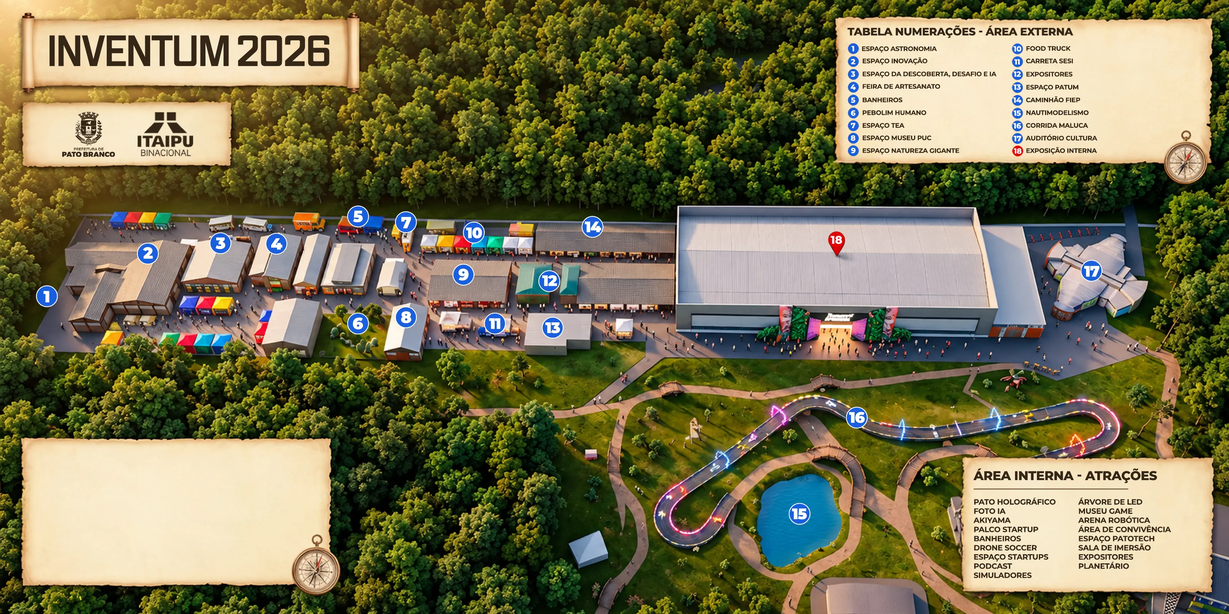
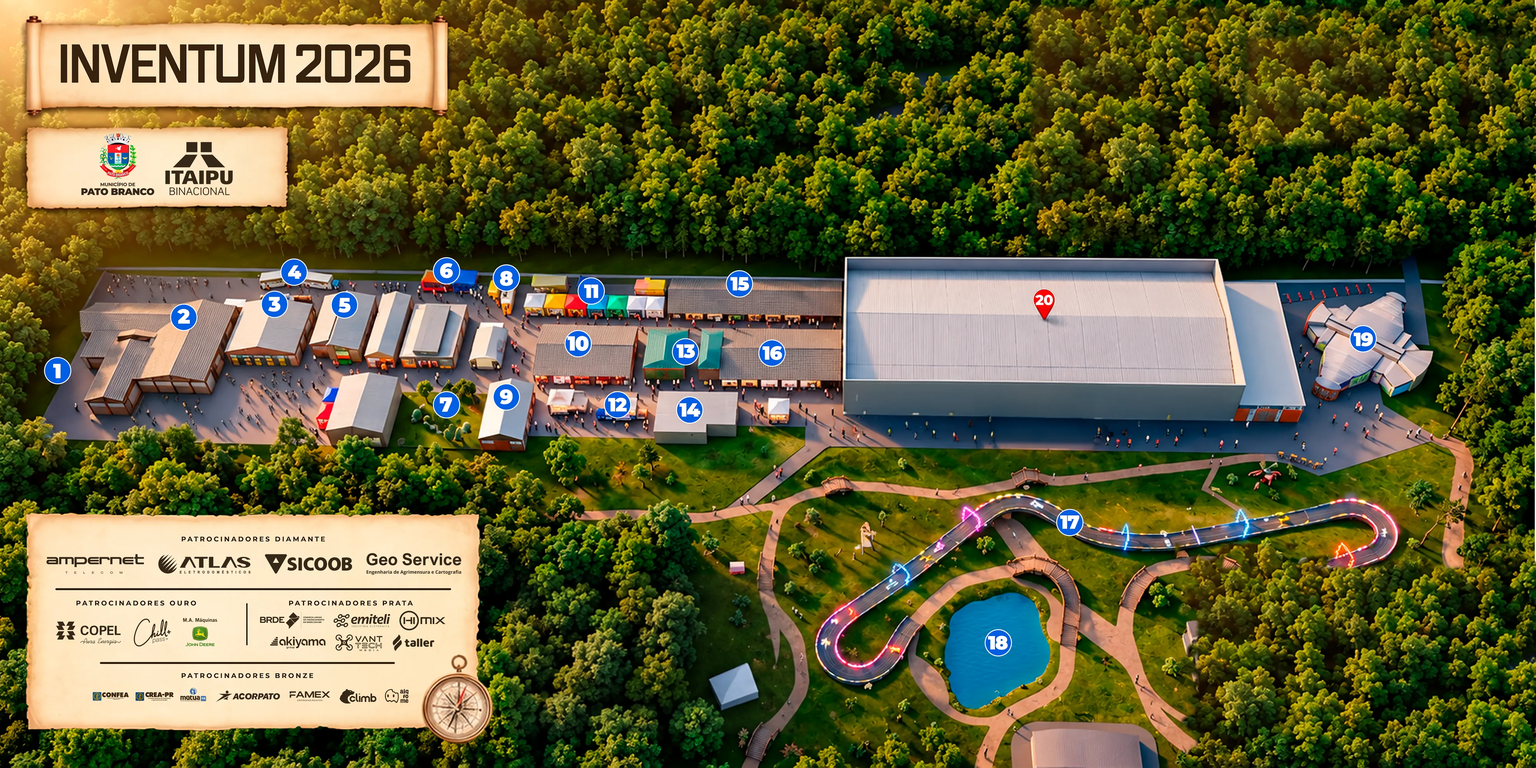
Mapa finalizado

diff --git a/src/Mapa.jsx b/src/Mapa.jsx
@@ -83,7 +83,8 @@ export default function Mapa({ foco, margem, rota, origem, destino, aoTocar, aoL
     const maxW = Math.min(IMG.largura, IMG.altura * (tam.w / tam.h))
     const cx = v.x + v.w / 2
     const cy = v.y + v.h / 2
-    const w = Math.min(Math.max(v.w, 120), maxW)
+    // zoom máximo: no máximo 5 pixels de tela por unidade (a imagem não fica borrada)
+    const w = Math.min(Math.max(v.w, 120, tam.w / 5), maxW)
     const h = w * (tam.h / tam.w)
     const k = w / tam.w
     const topo = (margem?.topo || 0) * k
@@ -97,7 +98,8 @@ export default function Mapa({ foco, margem, rota, origem, destino, aoTocar, aoL
   // enquadra uma caixa do mapa na parte livre da tela (acima do painel)
   // "manter": ponto que precisa aparecer quando a caixa não cabe na tela (ex.: onde a pessoa está)
   // "mover": só arrasta o mapa até a caixa, sem mudar o zoom
-  function enquadrar(b, manter, mover) {
+  // soManter: não mexe no zoom nem no centro; só arrasta o mínimo para "manter" aparecer
+  function enquadrar(b, manter, mover, soManter) {
     const topo = margem?.topo || 0
     const baixo = margem?.baixo || 0
     const esquerda = margem?.esquerda || 0
@@ -105,9 +107,9 @@ export default function Mapa({ foco, margem, rota, origem, destino, aoTocar, aoL
     const livreW = Math.max(tam.w - esquerda - 24, 120)
     // escala (unidades do mapa por pixel), sem passar do zoom máximo e do mínimo
     const maxEscala = Math.min(IMG.largura, IMG.altura * (tam.w / tam.h)) / tam.w
-    const escala = mover && vb ? vb.w / tam.w
-      : Math.min(Math.max(Math.max(b.w / livreW, b.h / livreH) * 1.08, 120 / tam.w), maxEscala)
-    let v = {
+    const escala = (mover || soManter) && vb ? vb.w / tam.w
+      : Math.min(Math.max(Math.max(b.w / livreW, b.h / livreH) * 1.08, Math.max(120, tam.w / 5) / tam.w), maxEscala)
+    let v = soManter && vb ? { ...vb } : {
       x: b.x + b.w / 2 - (esquerda + 12 + livreW / 2) * escala,
       y: b.y + b.h / 2 - (topo + livreH / 2) * escala,
       w: tam.w * escala,
@@ -124,20 +126,34 @@ export default function Mapa({ foco, margem, rota, origem, destino, aoTocar, aoL
       v = { ...v, x: v.x + dx, y: v.y + dy }
     }
     // não mostra faixa vazia embaixo da imagem se não precisar
-    const yMax = Math.max(IMG.altura - v.h, b.y + b.h - (v.h - baixo * escala))
-    v = limitar({ ...v, y: Math.min(v.y, yMax) })
+    if (!soManter) {
+      const yMax = Math.max(IMG.altura - v.h, b.y + b.h - (v.h - baixo * escala))
+      v = { ...v, y: Math.min(v.y, yMax) }
+    }
+    v = limitar(v)
     setVb(v)
   }
 
   useEffect(() => {
-    if (tam.w && foco) enquadrar(foco.caixa, foco.manter, foco.mover)
+    if (tam.w && foco) enquadrar(foco.caixa, foco.manter, foco.mover, foco.soManter)
     // refaz quando o painel muda de tamanho, para a rota não ficar escondida atrás dele
   }, [foco, tam.w, tam.h, margem?.baixo, margem?.esquerda]) // eslint-disable-line react-hooks/exhaustive-deps
+
+  // centro da parte do mapa que não fica atrás do painel (os botões + e − aproximam ali)
+  const centroLivre = () => {
+    const esq = margem?.esquerda || 0
+    return { x: esq + (tam.w - esq) / 2, y: (tam.h - (margem?.baixo || 0)) / 2 }
+  }
 
   function zoomEm(px, py, fator) {
     setVb((v) => {
       const mx = v.x + (px / tam.w) * v.w
       const my = v.y + (py / tam.h) * v.h
+      // não deixa passar do zoom máximo/mínimo; senão o mapa "pula" para outro ponto
+      const minW = Math.max(120, tam.w / 5)
+      const maxW = Math.min(IMG.largura, IMG.altura * (tam.w / tam.h))
+      fator = Math.min(Math.max(fator, minW / v.w), maxW / v.w)
+      if (Math.abs(fator - 1) < 1e-3) return v
       return limitar({ x: mx - (mx - v.x) * fator, y: my - (my - v.y) * fator, w: v.w * fator, h: v.h * fator })
     })
   }
@@ -260,11 +276,12 @@ export default function Mapa({ foco, margem, rota, origem, destino, aoTocar, aoL
         const t = naTela(posPonto(l))
         ocupado.push({ x1: t.x - 16, x2: t.x + 16, y1: t.y - 16, y2: t.y + 16 })
       }
-      const e = naTela(PLANTA.entrada)
+      // as duas entradas ficam nas laterais do Pavilhão
       const el = naTela(PLANTA.entradaLateral)
+      const er = naTela(PLANTA.entradaDireita)
       for (const r of [
-        { x1: e.x - 30, x2: e.x + 30, y1: e.y + 4, y2: e.y + 24 },
         { x1: el.x - 66, x2: el.x - 6, y1: el.y - 10, y2: el.y + 10 },
+        { x1: er.x + 6, x2: er.x + 66, y1: er.y - 10, y2: er.y + 10 },
       ]) {
         const entrada = { ...r, id: null, texto: 'Entrada', classe: ' rotulo-entrada' }
         ocupado.push(entrada)
@@ -340,7 +357,7 @@ export default function Mapa({ foco, margem, rota, origem, destino, aoTocar, aoL
 
           {/* telhado aberto: o Pavilhão por dentro, em 3D (aparece ao aproximar) */}
           <image href={PLANTA.imagem} x={PX} y={PY} width={PW} height={PH} preserveAspectRatio="none"
-            className={`pavilhao-dentro${aberto ? ' visivel' : ''}`} />
+            className={`pavilhao-dentro${aberto || rota?.pelaPavilhao ? ' visivel' : ''}`} />
 
           {/* rota: do número de origem até o número de destino */}
           {pontos && (() => {
@@ -401,8 +418,8 @@ export default function Mapa({ foco, margem, rota, origem, destino, aoTocar, aoL
       )}
 
       <div className="controles" style={{ bottom: (margem?.baixo || 0) + 12 }}>
-        <button aria-label="Aproximar" onClick={() => zoomEm(tam.w / 2, tam.h / 2, 1 / 1.6)}>+</button>
-        <button aria-label="Afastar" onClick={() => zoomEm(tam.w / 2, tam.h / 2, 1.6)}>−</button>
+        <button aria-label="Aproximar" onClick={() => zoomEm(centroLivre().x, centroLivre().y, 1 / 1.6)}>+</button>
+        <button aria-label="Afastar" onClick={() => zoomEm(centroLivre().x, centroLivre().y, 1.6)}>−</button>
       </div>
 
       {editor && clique && <div className="coordenadas">x: {clique.x}, y: {clique.y}</div>}

diff --git a/src/App.jsx b/src/App.jsx
@@ -43,7 +43,7 @@ function Numero({ local, grande }) {
   )
 }
 
-const ondeFica = (l) => (l.dentro ? 'Dentro do Pavilhão (18)' : `Área externa · número ${l.numero}`)
+const ondeFica = (l) => (l.dentro ? `Dentro do Pavilhão (${pavilhao.numero})` : `Área externa · número ${l.numero}`)
 
 export default function App() {
   const [origem, setOrigem] = useState(() => buscarLocal(params.get('aqui')))
@@ -89,7 +89,8 @@ export default function App() {
     setPassos(false)
     const r = calcularRota(dados, grafo, origem, local)
     // tocou no mapa: só arrasta, mantendo à vista o lugar tocado; da lista: enquadra a partir de onde a pessoa está
-    if (r) setFoco(daLista ? caixaDaRota(origem, local, r) : { ...caixaDaRota(origem, local, r), manter: pontoDe(dados, local), mover: true })
+    // da lista: enquadra a rota toda; tocando no mapa: o mapa fica onde está (só arrasta se o lugar ficar atrás do painel)
+    if (r) setFoco(daLista ? caixaDaRota(origem, local, r) : { caixa: caixaDaRota(origem, local, r).caixa, manter: local.ponto || pontoDe(dados, local), soManter: true })
   }
 
   function Linha({ local }) {
@@ -120,14 +121,19 @@ export default function App() {
     }
     const itens = []
     itens.push(origem.dentro
-      ? <>Saia {origem.x != null ? <>de <strong>{origem.nome}</strong> e siga a linha até a entrada do </> : 'pela entrada do '}<Numero local={pavilhao} /> <strong>Pavilhão</strong></>
+      ? <>Saia {origem.x != null ? <>de <strong>{origem.nome}</strong> e siga a linha até a entrada lateral do </> : 'pela entrada lateral do '}<Numero local={pavilhao} /> <strong>Pavilhão</strong></>
       : <>Saia de <Numero local={origem} /> <strong>{origem.nome}</strong></>)
     if (rota.pontos.length > 1) {
-      itens.push(rota.referencias.length
-        ? <>Siga a linha azul passando por {rota.referencias.slice(0, 3).map((l, i, t) => (
+      // quando a rota atravessa o Pavilhão, ele tem um passo só dele
+      const refs = rota.pelaPavilhao ? rota.referencias.filter((l) => l.id !== dados.pavilhao) : rota.referencias
+      itens.push(refs.length
+        ? <>Siga a linha azul passando por {refs.slice(0, 3).map((l, i, t) => (
             <span key={l.id}><Numero local={l} /> {l.nome}{i < t.length - 2 ? ', ' : i === t.length - 2 ? ' e ' : ''}</span>
           ))}</>
         : <>Siga a linha azul</>)
+      if (rota.pelaPavilhao) {
+        itens.push(<>Entre pela lateral do <Numero local={pavilhao} /> <strong>Pavilhão</strong>, atravesse por dentro (passando pelas atrações) e saia pela outra lateral</>)
+      }
     }
     itens.push(destino.dentro
       ? (destino.x != null
@@ -211,7 +217,7 @@ export default function App() {
               <span className="dica-passo">{origem ? '2 de 2' : '1 de 2'}</span>
               <span>
                 <strong>{origem ? 'Toque no número para onde você quer ir.' : 'Toque no número do lugar onde você está.'}</strong>
-                <small>{origem ? 'Toque no número ou no nome. Aproxime o Pavilhão (18) para ver o que tem dentro.' : 'Arraste o mapa e use dois dedos para aproximar.'}</small>
+                <small>{origem ? `Toque no número ou no nome. Aproxime o Pavilhão (${pavilhao.numero}) para ver o que tem dentro.` : 'Arraste o mapa e use dois dedos para aproximar.'}</small>
               </span>
             </p>
             <button className="link" onClick={() => setLista(true)}>Ou escolha na lista</button>

diff --git a/src/rota.js b/src/rota.js
@@ -3,10 +3,12 @@ export function montarGrafo(dados) {
   const vizinhos = {}
   for (const id in dados.nos) vizinhos[id] = []
 
-  for (const [a, b] of dados.caminhos) {
+  // o 3º valor do caminho (opcional) deixa o trecho "mais caro" para a rota evitar
+  // (ex.: a calçada da frente do Pavilhão, para a rota passar por dentro dele)
+  for (const [a, b, custo = 1] of dados.caminhos) {
     const na = dados.nos[a]
     const nb = dados.nos[b]
-    const peso = Math.hypot(na.x - nb.x, na.y - nb.y)
+    const peso = Math.hypot(na.x - nb.x, na.y - nb.y) * custo
     vizinhos[a].push({ id: b, peso })
     vizinhos[b].push({ id: a, peso })
   }
@@ -74,5 +76,9 @@ export function calcularRota(dados, grafo, origem, destino) {
     }
   }
 
-  return { destino, pontos, referencias, metros: r.distancia * dados.metrosPorUnidade }
+  // distância de verdade (sem o custo extra dos trechos evitados)
+  let d = 0
+  for (let i = 1; i < pontos.length; i++) d += Math.hypot(pontos[i].x - pontos[i - 1].x, pontos[i].y - pontos[i - 1].y)
+  const pelaPavilhao = !origem.dentro && !destino.dentro && r.caminho.some((id) => id.startsWith('pv'))
+  return { destino, pontos, referencias, pelaPavilhao, metros: d * dados.metrosPorUnidade }
 }

diff --git a/README.md b/README.md
@@ -1,10 +1,10 @@
 # Mapa Inventum 2026
 
-Mapa do evento para celular. A base é a imagem oficial do mapa (`public/mapa-inventum.webp`), com os mesmos números (1 a 18). A pessoa escaneia o QR code e aparece "Você está aqui". Ela toca no número do lugar no mapa (ou escolhe na lista) e aparece a rota. Tocar de novo no mesmo número (ou no X) desmarca.
+Mapa do evento para celular. A base é a imagem final do mapa (`public/mapa-inventum.webp`), com os números dela (1 a 20) e sem o QR code e as tabelas: o nome de cada lugar aparece ao lado do número. A pessoa escaneia o QR code e aparece "Você está aqui". Ela toca no número ou no nome do lugar no mapa (ou escolhe na lista) e aparece a rota. Tocar de novo no mesmo lugar (ou no X) desmarca.
 
-- A rota é uma linha azul por cima da imagem, do número de origem até o número de destino, seguindo os caminhos do evento.
-- O painel mostra "Como chegar" em passos: de onde sair, por quais números passar e onde chegar, com o tempo a pé.
-- A lista tem duas abas: **Área externa** (números 1 a 17) e **Dentro do Pavilhão** (as atrações do 18). Para as atrações de dentro, a rota leva até a entrada do Pavilhão.
+- A rota é uma linha azul por cima da imagem, da origem até o destino, seguindo os caminhos do evento.
+- O painel mostra "Como chegar" em passos: de onde sair, por quais lugares passar e onde chegar, com o tempo a pé.
+- A lista tem duas abas: **Área externa** e **Dentro do Pavilhão** (as atrações do Pavilhão). Para as atrações de dentro, a rota leva até a entrada do Pavilhão.
 - O mapa ocupa a tela toda. O card de baixo sempre mostra a dica do que fazer em cada etapa, e o botão redondo volta o mapa para onde a pessoa está.
 - Um X na etiqueta "Você está aqui", na do destino e no painel desmarca. Arrastar move o mapa, e dois dedos dão zoom (no computador, a roda do mouse ou os botões + / −).
 - Sem QR code, o primeiro toque marca onde a pessoa está.
@@ -26,15 +26,15 @@ As posições são medidas na imagem com largura 1600 e altura 800 (`imagem.larg
 - **locais**: cada lugar.
   - `id`: vai no QR code (`?aqui=id`). Não mudar depois de imprimir.
   - `numero`: o número que aparece na imagem.
+  - `rotulo`: o nome que aparece no mapa, ao lado do ponto.
   - `nome`: aparece na lista e nos passos.
-  - `rotulo`: nome curto que aparece no mapa ao lado do número (ex.: "Artesanato").
   - `x`, `y`: onde fica o número na imagem (é onde a pessoa toca).
   - `no`: em qual ponto do caminho o lugar se liga. A rota chega por ele.
   - `dentro: true`: atração de dentro do Pavilhão. `x`, `y` é o meio do espaço dela (onde a rota chega), `ponto` é onde fica a bolinha com o ícone, `no` é a porta dela no corredor e `icone` é o desenho da bolinha (pato, foto, empresa, palco, banheiro, drone, bola, foguete, fone, volante, arvore, controle, robo, cafe, chip, vr, planeta). Sem `x`, `y` e `no` (ex.: Expositores), não aparece no mapa e a rota vai até a entrada do Pavilhão.
-- **pavilhao**: o `id` do lugar que representa o Pavilhão (o 18).
+- **pavilhao**: o `id` do lugar que representa o Pavilhão (Exposição Interna).
 - **planta**: o Pavilhão por dentro. Com o mapa aproximado, o telhado some e aparece o desenho 3D de dentro (`imagem`, em `public/pavilhao-dentro.webp`, feito a partir da planta interna do Miro). `contorno` é `[x, y, largura, altura]` do telhado; `entrada` (porta da frente) e `entradaLateral` (ENTRADA 01) marcam as portas. Os corredores de dentro são os nós `pv...` em `nos` e `caminhos`; a porta da frente liga no nó `entrada` e a lateral no corredor dos food trucks (`f4`).
 - **nos**: pontos dos caminhos (`x`, `y` na imagem).
-- **caminhos**: ligações entre dois nós. A rota só anda por elas.
+- **caminhos**: ligações entre dois nós. A rota só anda por elas. Um 3º número opcional deixa o trecho "mais caro" (ex.: `["p1", "entrada", 4]`): a calçada da frente do Pavilhão tem custo 4, para que quem está à esquerda e vai para o Auditório (ou outro lugar à direita) passe por dentro do Pavilhão.
 - **metrosPorUnidade**: usado para o tempo a pé (aproximado).
 
 **Lugar mudou de nome?** Trocar o `nome`. **Mudou de lugar?** Trocar `x`, `y` e `no`.
@@ -42,7 +42,7 @@ As posições são medidas na imagem com largura 1600 e altura 800 (`imagem.larg
 ### Quando chegar a versão final da imagem
 
 1. Exporte a imagem nova (2:1, de preferência com 3200 px de largura) e salve por cima de `public/mapa-inventum.webp` (ou troque `imagem.arquivo`).
-2. Abra com `?editor` (ex.: `http://localhost:5173/?editor`) e toque em cada número e em cada curva dos caminhos para ver o `x, y`.
+2. Abra com `?editor` (ex.: `http://localhost:5173/?editor`) e toque em cada lugar e em cada curva dos caminhos para ver o `x, y`.
 3. Atualize `locais`, `nos` e `caminhos` no JSON e rode `node scripts/testar-rotas.mjs`.
 
 Se a imagem nova não for 2:1, mude também `imagem.largura` e `imagem.altura` para a mesma proporção.
@@ -50,7 +50,7 @@ Se a imagem nova não for 2:1, mude também `imagem.largura` e `imagem.altura` p
 ### Modo editor
 
 Abrir com `?editor` no final, ex.: `http://localhost:5173/?aqui=food-truck&editor`.
-Mostra os caminhos (linhas rosa), os nós (pontos amarelos com o nome) e a ligação de cada número ao seu nó (linhas azuis tracejadas). Ao tocar no mapa, mostra o `x, y` daquele ponto para colocar no JSON.
+Mostra os caminhos (linhas rosa), os nós (pontos amarelos com o nome) e a ligação de cada lugar ao seu nó (linhas azuis tracejadas). Ao tocar no mapa, mostra o `x, y` daquele ponto para colocar no JSON.
 
 ### Conferir as rotas
 
@@ -106,3 +106,8 @@ npm run qrcodes -- https://mapa-inventum-xxxxx.run.app
 ```
 
 Gera um PNG por local na pasta `qrcodes/`. Imprima só os dos pontos onde vai ter QR.
+
+
+## Entradas do Pavilhão
+
+O acesso é só pelas laterais: a da esquerda (`entradaLateral`, ligada ao nó `f4`, no fim do corredor dos Food Trucks) e a da direita (`entradaDireita`, que passa pelo anexo de teto diferente e sai na calçada pelos nós `anexo` e `anexo-porta`). A frente do Pavilhão não tem entrada.
